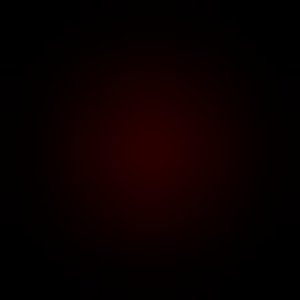
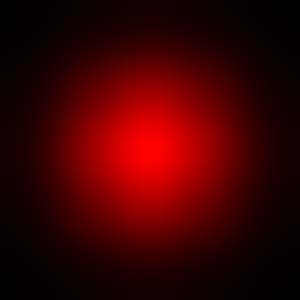
wip intensity gradient

diff --git a/src/python/density_gradient.py b/src/python/density_gradient.py
@@ -1,0 +1,61 @@
+import numpy as np
+from PIL import Image
+from math import degrees
+from scipy import signal
+from skimage.color import rgb2hsv, rgb2gray
+import os
+from convolve_util import convolve_rgb, convolve, show_filter
+
+kernel_x = np.array([[1, 0], 
+                    [0, -1]])
+
+kernel_y = np.array([[0, 1], 
+                    [-1, 0]])
+
+def intensity_gradient(mono_img):
+    grad_x = convolve(mat=mono_img, kernel=kernel_x)
+    grad_y = convolve(mat=mono_img, kernel=kernel_y)
+
+    f = np.vectorize(lambda x1, x2: np.arctan(x1, x2) - 3*np.pi/4) 
+    direction = f(grad_x, grad_y)
+
+    return direction
+    
+
+def intensity_gradient(mono_img):
+    # get the matrix of values
+    grad_x = convolve(mat=mono_img, kernel=kernel_x)
+    grad_y = convolve(mat=mono_img, kernel=kernel_y)
+
+    # calculate the magnitude gradient
+    g = lambda x1, x2: np.sqrt(np.power(x1, 2) + np.power(x2, 2))
+    grad = g(grad_x, grad_y)
+    show_filter(grad, resize=False)
+
+    # calculate the direction
+    f = np.vectorize(calc_angle_lambda) 
+    direction = f(grad_x, grad_y)
+
+    # round the direction 
+    round_direction_vec = np.vectorize(round_direction)
+    rounded_direction = round_direction_vec(direction)
+    
+    return grad
+
+def calc_angle_lambda(g_x, g_y):
+    if (g_y == 0):
+        return 0
+    return np.arctan(g_x / g_y) - 3*np.pi/4
+
+def round_direction(theta):
+    rounded_dir = round(theta / (np.pi/4)) * (np.pi/4)
+
+    # map to first 2 quadrants
+    while (rounded_dir < 0):
+        rounded_dir += np.pi
+
+    if (abs(round_direction == np.pi)):
+        rounded_dir = 0
+    
+    return rounded_dir
+

diff --git a/src/python/gaussian_blur.py b/src/python/gaussian_blur.py
@@ -1,18 +1,14 @@
 import numpy as np
 from PIL import Image
-from scipy import signal
+from convolve_util import convolve, show_filter
+from skimage.color import rgb2gray
 import os
 
 def gaussian_filter(size, sigma=2):
     kernel = np.fromfunction(lambda x, y: (1/(2*np.pi*sigma**2)) * np.exp(-((x-(size-1)/2)**2 + (y-(size-1)/2)**2)/(2*sigma**2)), (size, size))
     return kernel / np.sum(kernel) # normalize
 
-
-def convolve(img, kernel):
-    return signal.convolve2d(img, kernel,'same', boundary = 'fill', fillvalue = 0)
-
-
-def gaussian_blur(img_mat, iterations = 1, kernel_size = 5, sigma = 2):
+def gaussian_blur_rgb(img_mat, iterations = 1, kernel_size = 5, sigma = 2):
     i = 0
     reformed_img = img_mat
     kernel = gaussian_filter(kernel_size, sigma)
@@ -27,18 +23,24 @@ def gaussian_blur(img_mat, iterations = 1, kernel_size = 5, sigma = 2):
         i += 1
     return reformed_img 
 
-def show_filter():
-    size = 5
-    kernel = gaussian_filter(size, 1) * 255
-    kernel_img =  np.array(Image.new(mode = "HSV", size=(size, size), color = (0,255,255)))
-    kernel_img[:,:,2] = kernel
-    img = Image.fromarray(kernel_img, mode = 'HSV').resize((300,300)).show()
+
+def gaussian_blur(img_mat, iterations = 1, kernel_size = 5, sigma = 2):
+    i = 0
+    out = img_mat
+    kernel = gaussian_filter(kernel_size, sigma)
+    while (i < iterations):
+        out = convolve(out, kernel)
+        i += 1
+    return out 
+
+
 
 def main(): 
-    show_filter()
+    show_filter(gaussian_filter(5, 1))
     # example
     img = Image.open(os.path.join(os.path.dirname(__file__), '../../images/flower.jpg'))
-    img_mat = np.array(img)
+    mono_img = img.convert("L")
+    img_mat = np.array(mono_img)
     out = gaussian_blur(img_mat, iterations = 3)
     img = Image.fromarray(out)
     img.show()

diff --git a/src/python/convolve_util.py b/src/python/convolve_util.py
@@ -1,0 +1,25 @@
+from scipy import signal
+import numpy as np
+from PIL import Image
+
+def convolve(mat, kernel):
+    return signal.convolve2d(mat, kernel,'same', boundary = 'fill', fillvalue = 0)
+
+def convolve_rgb(mat, kernel):
+        out_r = convolve(mat[:,:,0], kernel)
+        out_g = convolve(mat[:,:,1], kernel)
+        out_b = convolve(mat[:,:,2], kernel)
+        return np.dstack((np.ceil(out_r).astype(np.uint8), 
+                        np.ceil(out_g).astype(np.uint8), 
+                        np.ceil(out_b).astype(np.uint8)))
+
+def show_filter(kernel, resize=True, resize_x=300, resize_y=300, save=False):
+    kernel = (kernel / np.max(kernel)) * 255 # normalize and rescale to 255
+    size = (kernel.shape[1], kernel.shape[0])
+    kernel_img =  np.array(Image.new(mode = "HSV", size=size, color = (255,0,255)))
+    kernel_img[:,:,2] = kernel
+    img = Image.fromarray(kernel_img, mode = 'HSV');
+    if (resize):
+         img = img.resize((resize_x, resize_y))  
+    img.show()
+    # img.convert('RGB').save("images/{name}.png", "PNG")

diff --git a/src/python/canny_edge.py b/src/python/canny_edge.py
@@ -1,15 +1,22 @@
 from gaussian_blur import gaussian_blur
+from density_gradient import intensity_gradient
 import numpy as np
 from PIL import Image
+from skimage.color import rgb2hsv
 import os
 
 def main(): 
     # example image
     img = Image.open(os.path.join(os.path.dirname(__file__), '../../images/flower.jpg'))
+    img.show()
+    img = img.convert("L") # grayscale
     img_mat = np.array(img)
 
     # step 1: gaussian blur
     out = gaussian_blur(img_mat, iterations = 1)
+
+    # step 2: finding intensity gradient
+    out = intensity_gradient(out)
     
     img = Image.fromarray(out)
     img.show()

diff --git a/README.md b/README.md
@@ -3,4 +3,5 @@ Implementation of Canny edge detection algorithm
 
 
 ## Gaussian Blur
-![Gaussian Blue Filter](images/gaussian_filter.png "Gaussian Blur")
+![Gaussian Blue Filter](./images/gaussian_filter.png "Gaussian Blur")
+